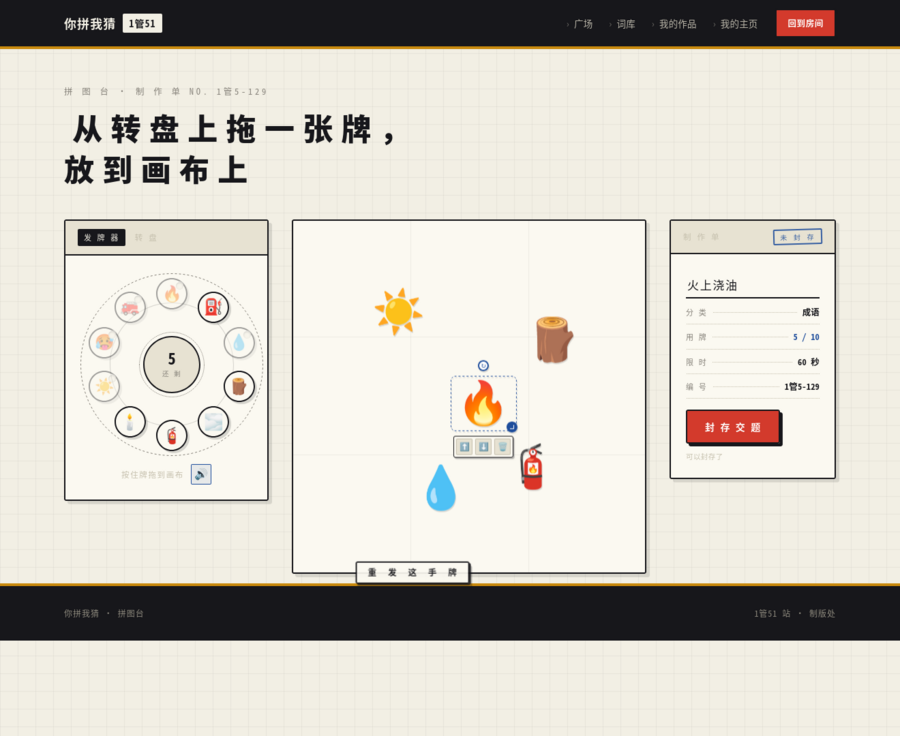
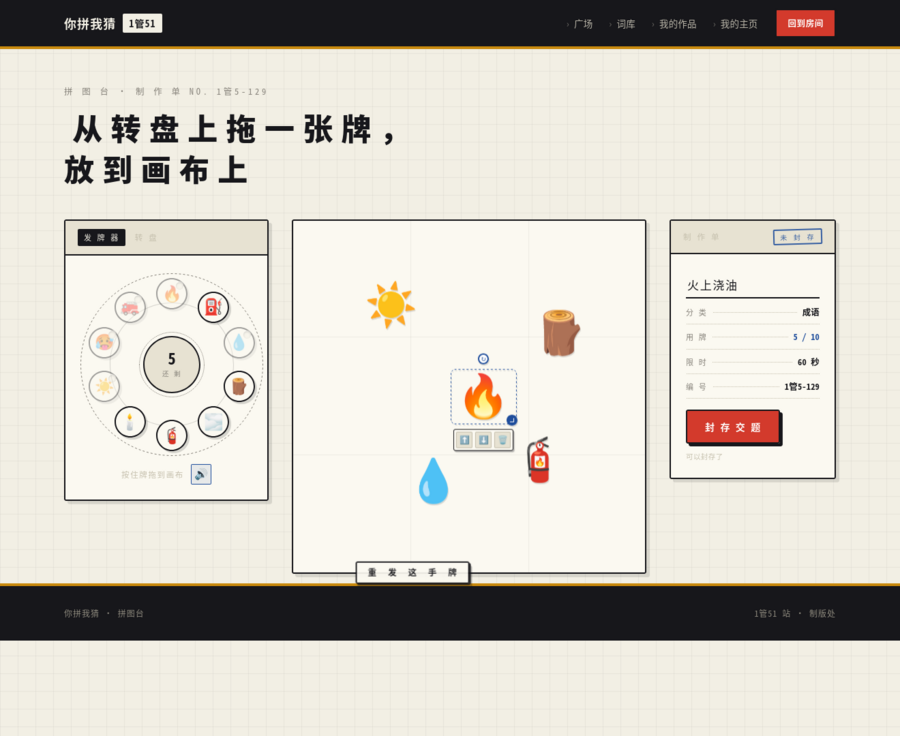
修正拼图台拖动的 X 轴失效
根因：pointermove 里算 left% 时漏减了画布的 r.left / r.top。

  dx = e.clientX - cx0          // 抓点相对牌心的偏移（视口坐标）
  left = (e.clientX - dx) / r.width * 100   // ← 得到的是视口坐标，却当画布内坐标用

画布位于中间栏，r.left≈438 而画布宽 520 —— 漏掉的这一项相当于画布宽度的 84%。
旧算法算出 left≈134%，被 clamp 到 100% 后又被 clampInto 收到 92.1%，
于是任何一次拖动牌都瞬间贴到右边缘。Y 同样错（偏 r.top），只是幅度小不易察觉。

改法：
- left = (e.clientX - dx - r.left) / r.width * 100（Y 同理减 r.top）
- r 在 pointerdown 时存进 mode，不再每次 pointermove 调 getBoundingClientRect（省布局抖动）
- dx/dy 改为直接用 cx/cy 计算，去掉重复的坐标展开
- 补注释说明这一减为什么不能省

验证（4 项位移测试，全部精确通过）：
① 抓牌心右移100px → 69.2%，Y 不动           ✓
② 下移80px → 65.4%，X 不动                   ✓
③ 抓边缘右移60px → 牌心位移量正确（抓取偏移保持）✓
④ 拖出画布右侧 → 被夹在 92.1%                ✓

diff --git a/app/compose.html b/app/compose.html
@@ -419,9 +419,9 @@ cv.addEventListener("pointerdown",e=>{
   const cy=r.top +r.height*parseFloat(p.style.top)/100;
   if(e.target.classList.contains("h-scale"))      mode={t:"scale",el:p,d0:dist(e,cx,cy),s0:sOf(p),cx,cy};
   else if(e.target.classList.contains("h-rot"))   mode={t:"rotate",el:p,a0:ang(e,cx,cy),r0:rOf(p),cx,cy};
-  else mode={t:"move",el:p,
-             dx:e.clientX-r.left-r.width*parseFloat(p.style.left)/100,
-             dy:e.clientY-r.top -r.height*parseFloat(p.style.top)/100};
+  else mode={t:"move",el:p,r,          // r 存下来给 pointermove 用（拖动期间画布不动）
+             dx:e.clientX-cx,          // 抓点相对牌心的偏移（视口坐标）
+             dy:e.clientY-cy};
   try{ p.setPointerCapture(e.pointerId); }catch(_){}
 });
 
@@ -429,9 +429,14 @@ addEventListener("pointermove",e=>{
   if(!mode) return;
   const p=mode.el;
   if(mode.t==="move"){
-    const r=cv.getBoundingClientRect();
-    p.style.left=Math.max(0,Math.min(r.width, e.clientX-mode.dx))/r.width*100+"%";
-    p.style.top =Math.max(0,Math.min(r.height,e.clientY-mode.dy))/r.height*100+"%";
+    /* ⚠ 必须减 r.left / r.top。
+       抓取偏移 dx 是在「视口坐标」下算出来的（e.clientX - 牌心），
+       而 left% 要的是「画布内坐标」。少了这一减，X 会被整体推偏 r.left，
+       画布在中间栏时（r.left≈390 / 画布宽 520）牌会一拖就贴到右边缘。
+       r 在 pointerdown 时存进 mode —— 拖动期间画布不会动，不必每次重算。 */
+    const r=mode.r;
+    p.style.left=Math.max(0,Math.min(r.width, e.clientX-mode.dx-r.left))/r.width*100+"%";
+    p.style.top =Math.max(0,Math.min(r.height,e.clientY-mode.dy-r.top ))/r.height*100+"%";
     clampInto(p);
   }else if(mode.t==="scale"){
     const k=dist(e,mode.cx,mode.cy)/Math.max(mode.d0,1);
